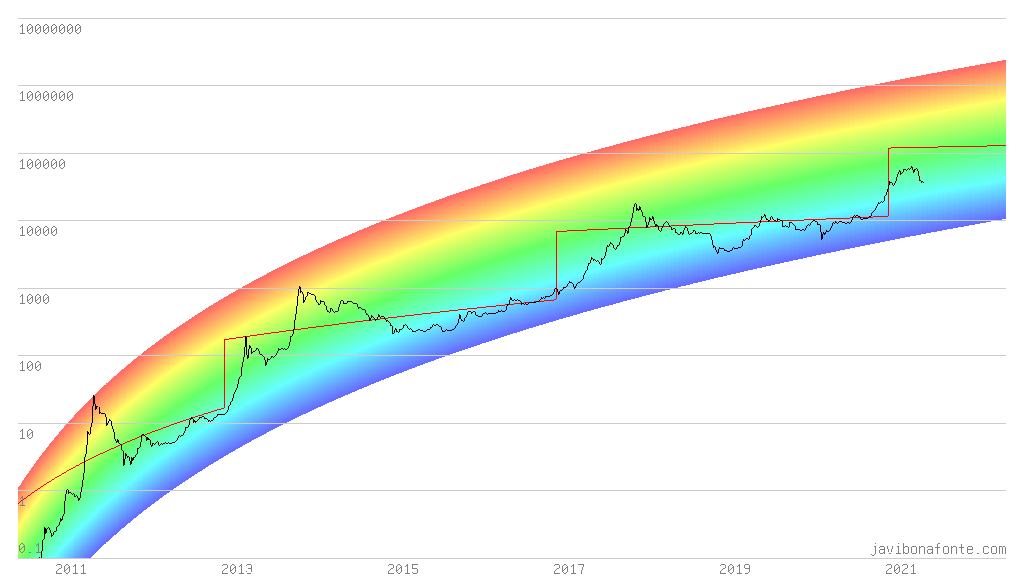
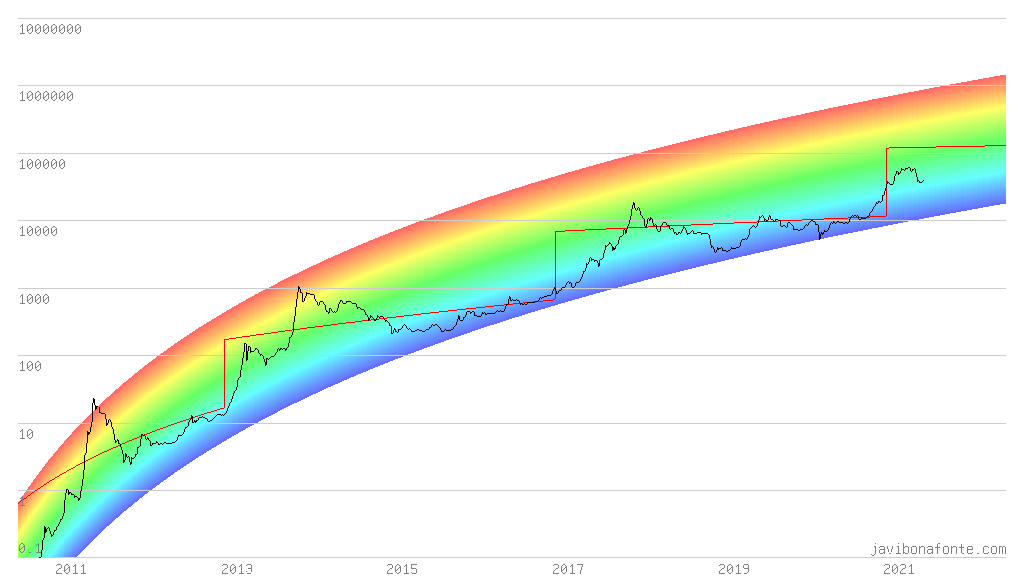
data updated and little bug fixed

diff --git a/src/btc-charts.c b/src/btc-charts.c
@@ -267,7 +267,7 @@ int paint_trololo (struct chart_cfg cfg) {
             (int) ((value - cfg.min_y) * (cfg.h - 2 * cfg.pad))
             / (cfg.max_y - cfg.min_y);
 
-        code = paint_rainbow_column (cfg, x, j, 80, 0, 120, 255);
+        code = paint_rainbow_column (cfg, x, j, 65, 0, 120, 255);
         //code = paint_function_column (cfg, x, j, prev_j, 255, 0, 0, 255);
         if (code != 0)
             return code;

diff --git a/src/myimg/myimg.c b/src/myimg/myimg.c
@@ -124,7 +124,7 @@ int paint_y_axis (float min, float max, int scale, float step,
             (apply_scale (scale, y) - scaled_min) * (Height - 2 * Pad)
             / (scaled_max - scaled_min);
 
-        if (j == Height)
+        if (j == Height - Pad)
             j--;
 
         for (x = Pad; x < Width - Pad; x++)
